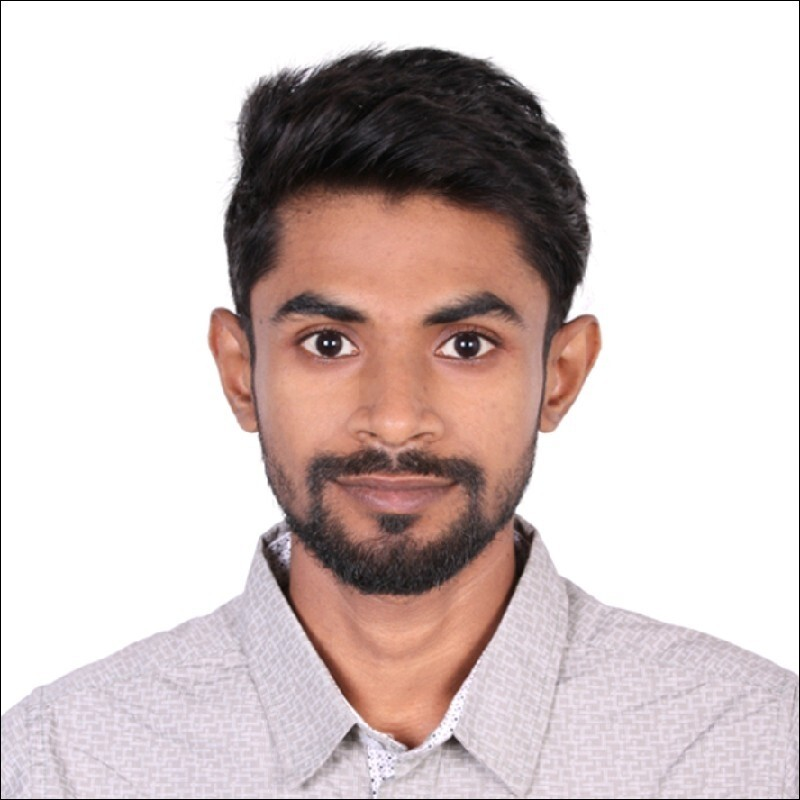
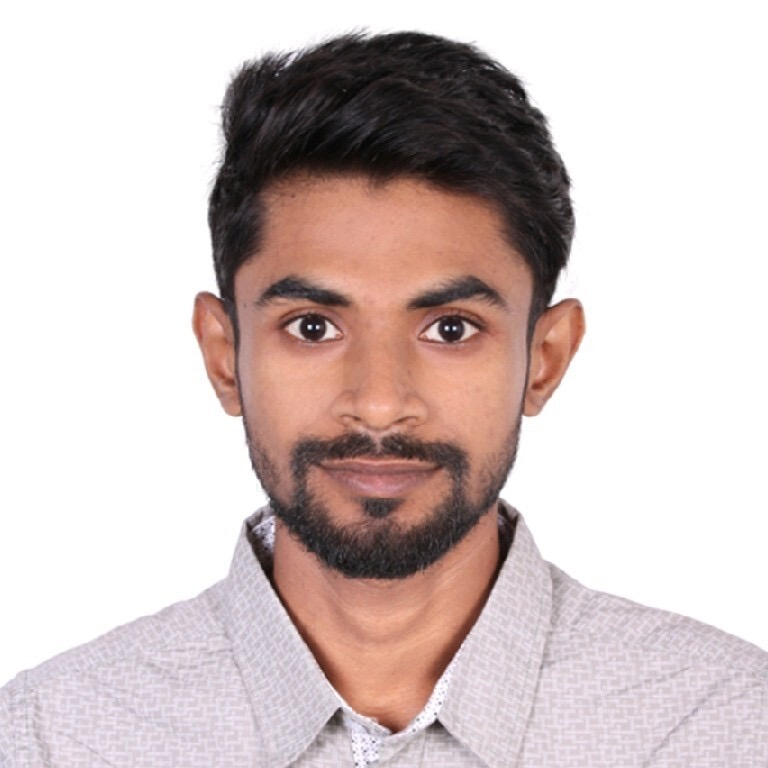
Fix gallery images not tracked in git; add oral presentation video
- Anchor .gitignore gallery rule to root (/gallery/) so images/gallery/
  web copies are tracked instead of being silently ignored
- Add the 3 CVPR 2026 gallery images that were never committed
- Add oral presentation YouTube embed to gallery
- Match video card height to image cards (200px)
- Crop profile.jpg to remove baked-in black border edges

diff --git a/_pages/gallery.html b/_pages/gallery.html
@@ -29,7 +29,7 @@ author_profile: true
   .gallery-video {
     position: relative;
     width: 100%;
-    padding-top: 56.25%; /* 16:9 */
+    height: 200px; /* match image card height */
   }
   .gallery-video iframe {
     position: absolute;